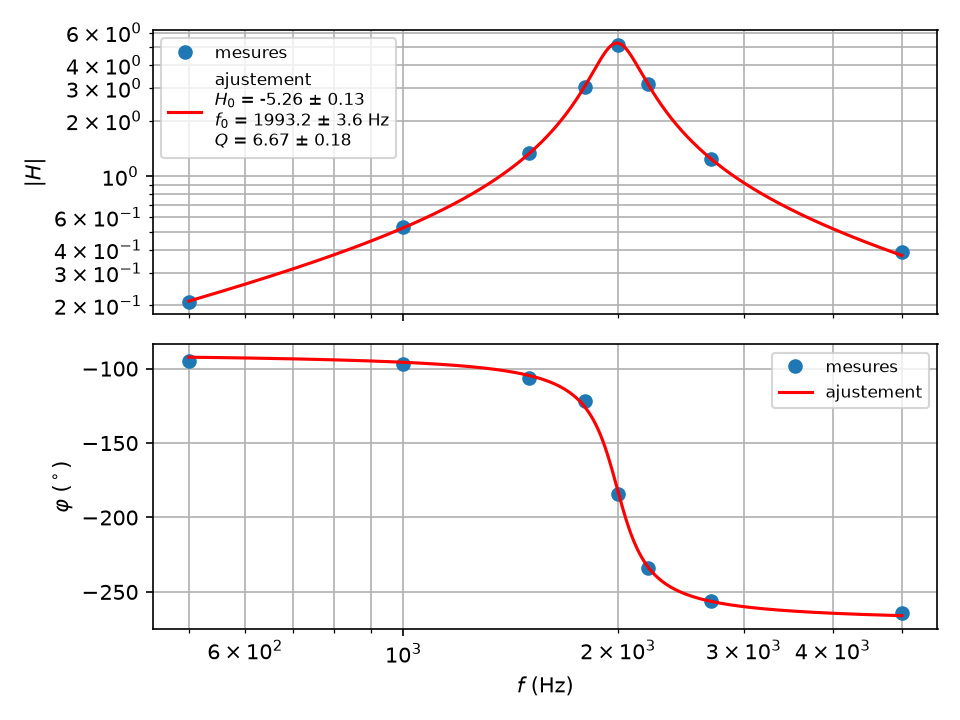
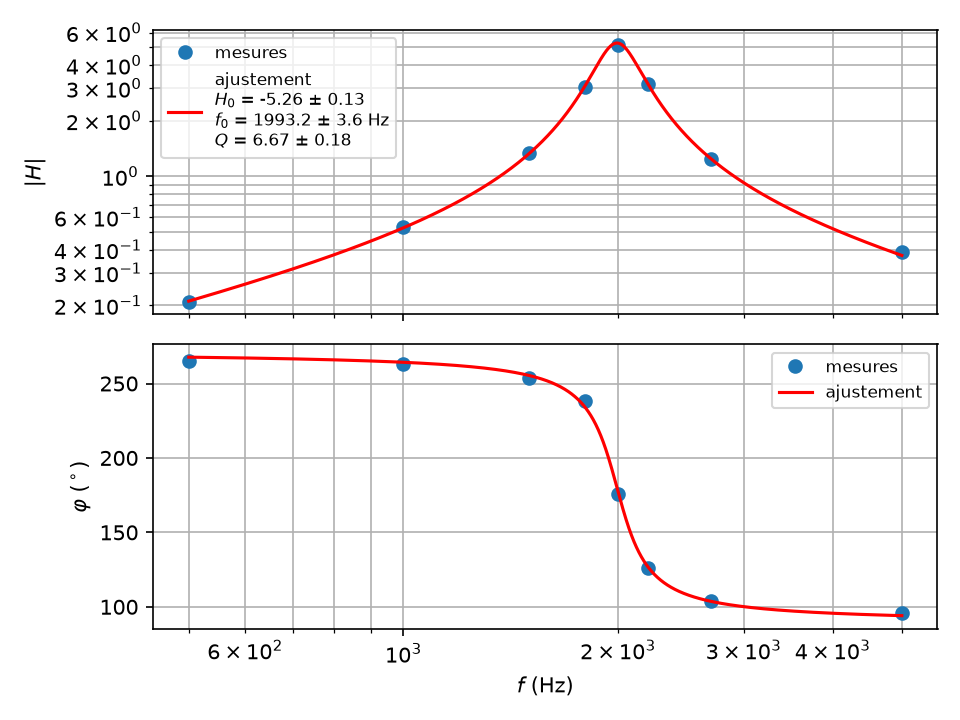
fix(bode): phase continue partant entre -45° et 315°
La plus basse fréquence prise entre -180° et 180° faisait tracer un
passe-bande inverseur de -90° à -270°, alors que le corrigé du TP3 (et la
version précédente) le montrent de 270° à 90° ; entre -90° et 270°, une
première mesure à -90° ± 3° basculait d'un tour selon le bruit. La
frontière est à -45°, à mi-chemin des phases de départ usuelles (0, ±90°,
180°) : l'inverseur va de 270° à 90°, le passe-bande de 90° à -90°, le
passe-bas de 0 à -90°, et une mesure bruitée ne bascule pas.

Un test vérifie aussi que curve_fit_complex corrige un départ de H0 de
signe faux ; fiches, exemples et figures suivent.

diff --git a/tpllg/bode.py b/tpllg/bode.py
@@ -3,14 +3,16 @@ Diagramme de Bode : le tracé des mesures et, s'il y en a un, du modèle ajusté
 gain au-dessus et phase au-dessous.
 
 La phase est tracée continue : celle du modèle déroulée le long des
-fréquences, en partant de la plus basse prise entre -180° et 180° ; chaque
+fréquences, en partant de la plus basse prise entre -45° et 315° ; chaque
 mesure au tour le plus proche du modèle. Un passe-bas va ainsi de 0 à -90°,
-un passe-bande de 90° à -90°, un passe-bande inverseur de -90° à -270°.
-Replier la phase sur [0, 360[ faisait sauter de 360° celle d'un passe-bande
-non inverseur en pleine résonance, et dispersait entre 0 et 359° des mesures
-voisines de 0°. (Prendre la moyenne entre -180° et 180° ferait basculer
-l'inverseur d'une plage de fréquences à l'autre : sa moyenne est près de
--180°.)
+un passe-bande de 90° à -90°, un passe-bande inverseur de 270° à 90° en
+passant par 180° à la résonance — comme le repli sur [0, 360[ d'avant, mais
+sans ses défauts : il faisait sauter de 360° la phase d'un passe-bande non
+inverseur en pleine résonance, et dispersait entre 0 et 359° des mesures
+voisines de 0°. (Les phases de départ usuelles sont 0, ±90° et 180° : la
+frontière, à -45°, est à mi-chemin, loin du bruit d'une mesure ; à -180°
+ou à -90°, elle passerait sur le départ d'un passe-haut du second ordre ou
+d'un passe-bande inverseur, qui basculeraient d'une mesure à l'autre.)
 
 @author: a. marchand
 """
@@ -28,7 +30,7 @@ def phase_continue(f, phase, reference=None):
     suivante.
 
     Sans `reference` : déroulée dans l'ordre des fréquences, la plus basse
-    prise entre -180° (exclu) et 180°. Avec `reference` (en degrés, une
+    prise entre -45° et 315° (exclu). Avec `reference` (en degrés, une
     valeur par fréquence, celle d'un modèle par exemple) : chaque phase prise
     au tour le plus proche de la référence.
     """
@@ -41,7 +43,7 @@ def phase_continue(f, phase, reference=None):
     deroulee = np.empty_like(phase)
     deroulee[ordre] = np.degrees(np.unwrap(phase[ordre]))
     premiere = deroulee[ordre[0]]
-    return deroulee - 360 * np.ceil((premiere - 180) / 360)
+    return deroulee - 360 * np.floor((premiere + 45) / 360)
 
 
 def tracer_bode(

diff --git a/tests/test_bode.py b/tests/test_bode.py
@@ -16,7 +16,7 @@ class TestPhaseContinue:
         ("H", "debut", "fin"),
         [
             (passe_bande(F, 5, 2000, 6), 90, -90),  # repliée sur [0, 360[, elle sautait de 55° à 280°
-            (passe_bande(F, -5, 2000, 6), -90, -270),
+            (passe_bande(F, -5, 2000, 6), 270, 90),  # comme le TP le montre : 270° → 180° → 90°
             (1 / (1 + 1j * F / 2000), 0, -90),
             (1 / (1 - (F / 2000) ** 2 + 1j * F / 2000 / 0.7), 0, -180),
         ],
@@ -25,6 +25,12 @@ class TestPhaseContinue:
         phase = phase_continue(F, np.angle(H))
         assert np.abs(np.diff(phase)).max() < 100  # 56° au plus près de la résonance, 360° pour un saut
         assert phase[0] == pytest.approx(debut, abs=10) and phase[-1] == pytest.approx(fin, abs=10)
+
+    @pytest.mark.parametrize("bruit", [-3.0, 0.0, 3.0])
+    def test_inverseur_mesure_sans_modele(self, bruit):
+        """Une première mesure à -90° ± le bruit ne fait pas basculer la courbe d'un tour."""
+        phase = phase_continue([200, 2000, 20000], np.radians([-90 + bruit, 180, 90]))
+        assert np.allclose(phase, [270 + bruit, 180, 90])
 
     def test_mesures_voisines_de_zero(self):
         """± 0,5° autour de 0 se dispersaient entre 0 et 359,5."""
@@ -58,8 +64,10 @@ class TestTracerBode:
         x_ajuste, y_ajuste = ax1.get_lines()[1].get_data()
         assert np.allclose(y_ajuste, np.abs(passe_bande(x_ajuste, *pfit)))
         _, phase_tracee = ax2.get_lines()[0].get_data()
-        assert np.allclose(phase_tracee, np.degrees(np.unwrap(np.angle(H))))  # l'inverseur : de -90° à -270°
-        assert phase_tracee[0] == pytest.approx(-90, abs=1)
+        assert np.allclose(
+            phase_tracee, np.degrees(np.unwrap(np.angle(H))) + 360
+        )  # l'inverseur : de 270° à 90°
+        assert phase_tracee[0] == pytest.approx(270, abs=1)
 
     def test_mesures_au_tour_du_modele(self):
         f = np.geomspace(100, 10000, 15)

diff --git a/exemples/ajustement_complexe.py b/exemples/ajustement_complexe.py
@@ -25,7 +25,7 @@ def module_seul(f, H0, f0, Q):
 
 def phase_deg(frequences, z):
     """La phase d'un complexe en degrés, continue le long des fréquences, comme
-    tracer_bode la trace : celle d'un passe-bande inverseur va de -90° à -270°."""
+    tracer_bode la trace : celle d'un passe-bande inverseur va de 270° à 90°."""
     return phase_continue(frequences, np.angle(z))
 
 
@@ -81,10 +81,10 @@ axes[1].plot(
     label="le module seul, si H0 > 0",
 )
 axes[1].set_xscale("log")
-axes[1].set_yticks(np.arange(-270, 91, 90))
+axes[1].set_yticks(np.arange(-90, 271, 90))
 axes[1].set_title("la phase : le signe de H0 se lit ici", fontsize=10)
 axes[2].set_xlim(f_zoom[0], f_zoom[-1])
-axes[2].set_ylim(-260, -100)
+axes[2].set_ylim(100, 260)
 axes[2].set_title(f"autour de la résonance : f0 = {pfit[1]:.0f} Hz ou {pmod[1]:.0f} Hz", fontsize=10)
 for ax in axes:
     ax.set_xlabel("f (Hz)")
@@ -164,7 +164,7 @@ axes[1].set_ylim(2, 5.6)
 axes[1].set_ylabel("|H|")
 axes[1].set_title("autour de la résonance", fontsize=10)
 axes[2].set_xscale("log")
-axes[2].set_yticks(np.arange(-270, -89, 45))
+axes[2].set_yticks(np.arange(90, 271, 45))
 axes[2].set_ylabel("phase (°)")
 axes[2].set_title("la phase, à 3° près", fontsize=10)
 for ax in axes:

diff --git a/tests/test_ajustement.py b/tests/test_ajustement.py
@@ -222,6 +222,13 @@ class TestCurveFitComplex:
         sans = curve_fit_complex(gain, f, norm, phase, [-4, 1800, 5], (0.01, 0.01), 1.0, verbose=False)
         assert np.allclose(avec.pfit, sans.pfit, rtol=1e-4) and np.allclose(avec.err, sans.err, rtol=1e-3)
 
+    def test_signe_de_h0_faux_corrige(self, rng):
+        """ln|H| interdit à H0 de passer par zéro : le départ par Re et Im le corrige."""
+        f, norm, phase = mesures_bode(rng)
+        bon = curve_fit_complex(gain, f, norm, phase, [-4, 1800, 5], verbose=False)
+        signe_faux = curve_fit_complex(gain, f, norm, phase, [4, 1800, 5], verbose=False)
+        assert np.allclose(signe_faux.pfit, bon.pfit, rtol=1e-6)
+
     def test_module_nul_refuse(self):
         with pytest.raises(ValueError, match="strictement positifs"):
             curve_fit_complex(gain, [1, 2, 3], [1, 0, 1], [0, 0, 0], [1, 2, 3], verbose=False)

diff --git a/exemples/ajustement_depart.py b/exemples/ajustement_depart.py
@@ -67,7 +67,7 @@ for colonne, (titre, p0) in enumerate(departs):
     bas.semilogx(f, phase_continue(f, phi, reference), "o", markersize=4)
     bas.semilogx(f_fin, phase_deg(f_fin, passe_bande(f_fin, *p0)), "--", color="gray")
     bas.semilogx(f_fin, modele, color="tab:orange")
-    bas.set_yticks(np.arange(-270, 271, 90))
+    bas.set_yticks(np.arange(-90, 451, 90))
     bas.set_xlabel("f (Hz)")
 axes[0, 0].set_ylabel("|H|")
 axes[1, 0].set_ylabel("phase (°)")

diff --git a/doc/tests.md b/doc/tests.md
@@ -1,6 +1,6 @@
 # Tests
 
-`pytest` depuis la racine du dépôt : 269 tests, douze fichiers, quelques
+`pytest` depuis la racine du dépôt : 273 tests, douze fichiers, quelques
 secondes, sans centrale (`tests/conftest.py` rend pycanum introuvable,
 supprime l'attente des acquisitions simulées et rend matplotlib muet). Ils
 passent sous Python 3.8 (numpy 1.24, scipy 1.10, matplotlib 3.7), 3.11 et
@@ -18,7 +18,7 @@ chaque défaut corrigé a le test qui l'aurait montré :
 | `test_ajustement.py` | les incertitudes des moindres carrés, `σ/√Sxx` et `σ√(1/P + x̄²/Sxx)`, la variance effective (mêmes paramètres, incertitudes dans le rapport des sigmas effectifs, pente prise sur le modèle sans dérivée, au moins une itération, le meilleur gardé), `curve_fit_complex` sans biais et aux incertitudes justes sur deux cents jeux simulés, une phase à 2π près, un signe de H0 faux corrigé, la régression de York sur les données de Pearson et York et ses incertitudes sur quatre cents jeux, l'arrondi à deux chiffres, les longueurs refusées |
 | `test_incertitudes.py` | la densité normalisée, son intégrale face à `loi_normale_cumulee`, le coefficient de Student comme quantile bilatéral, `sigma` pris en compte sans Student |
 | `test_montecarlo.py` | les incertitudes composées, les corrélations gardées, un tirage jamais refait, deux N différents refusés, un Point non tiré qui prend le N de l'autre, les lois uniforme, triangulaire et arcsinus, l'intervalle le plus court, la droite sans atténuation et égale à York, `ajuster_modele` égal à `curvefit` en valeur et en incertitude, un tirage qui ne converge pas remplacé, les indices de Sobol de deux cas analytiques, `show` dans un repère donné |
-| `test_bode.py` | la phase continue d'un passe-bande, d'un inverseur, d'un passe-bas, des mesures voisines de 0°, la phase de chaque mesure au tour du modèle, la figure écrite avec le modèle et la légende |
+| `test_bode.py` | la phase continue d'un passe-bande, d'un inverseur (de 270° à 90°, même mesuré à ±3° près), d'un passe-bas, des mesures voisines de 0°, la phase de chaque mesure au tour du modèle, la figure écrite avec le modèle et la légende |
 | `test_harmoniques.py` | la synthèse du créneau, du triangle et de la dent de scie, la valeur efficace (Parseval, composante continue entière), le signe de H(0), un H qui ne se calcule pas en 0, un spectre en entiers, des listes de coefficients non modifiées, la valeur de chaque filtre à sa fréquence caractéristique |
 | `test_fichiers.py` | le délimiteur et la virgule devinés, un Path, un fichier sans en-tête ou à une colonne, les lignes vides ou courtes, un fichier Regressi de Windows à virgule décimale, une erreur située à la ligne et à la colonne, le nombre de colonnes vérifié sur un fichier qui existe |
 

diff --git a/doc/bode.md b/doc/bode.md
@@ -59,15 +59,17 @@ sous `f0` à −270° loin au-dessus en passant par −180°, saute alors d'un b
 à l'autre au voisinage de `f0`, où l'on mesure justement le plus de points.
 `phase_continue` rend la phase en degrés, **sans saut** d'une fréquence à la
 suivante : déroulée dans l'ordre des fréquences, la plus basse prise entre
--180° et 180°. Un passe-bas va ainsi de 0 à −90°, un passe-bande de 90° à
-−90°, un passe-bande inverseur de −90° à −270°.
+−45° et 315°. Un passe-bas va ainsi de 0 à −90°, un passe-bande de 90° à
+−90°, un passe-bande inverseur de 270° à 90° en passant par 180° à la
+résonance. (Les phases de départ usuelles sont 0, ±90° et 180° ; la
+frontière, à −45°, est à mi-chemin, loin du bruit d'une mesure.)
 
 ```python
 >>> phase_continue([100, 200, 300, 400], np.radians([-0.5, 0.3, -1.0, 0.4]))
 array([-0.5,  0.3, -1. ,  0.4])
 >>> f = np.array([500, 1000, 1500, 1800, 2000, 2200, 2700, 5000.0])
 >>> np.round(phase_continue(f, np.radians([-95, -97, -106, -122, 176, 126, 104, 96])), 1)
-array([ -95.,  -97., -106., -122., -184., -234., -256., -264.])
+array([265., 263., 254., 238., 176., 126., 104.,  96.])
 ```
 
 Avec `reference`, une valeur en degrés par fréquence — celle d'un modèle —,
@@ -79,10 +81,10 @@ que `tracer_bode` fait des mesures, une fois le modèle déroulé.
 array([370., 190., 175.])
 ```
 
-(La version précédente repliait la phase sur `[0, 360[`. Cela recollait
-l'inverseur, mais faisait sauter de 360° celle d'un passe-bande non
-inverseur en pleine résonance, et dispersait entre 0 et 359,5° des mesures
-voisines de 0°.)
+(La version précédente repliait la phase sur `[0, 360[`. Cela donnait la
+même courbe pour l'inverseur, mais faisait sauter de 360° celle d'un
+passe-bande non inverseur en pleine résonance, et dispersait entre 0 et
+359,5° des mesures voisines de 0°.)
 
 Une phase mesurée en degrés se convertit en radians par `np.radians`
 avant tout ; `tracer_bode` fait la conversion inverse pour l'affichage.
@@ -164,7 +166,7 @@ résidus relatifs sur |H| : écart-type 3.4 %, maximum 10.9 %
 résidus sur phi          : écart-type 2.7°, maximum 6.1°
 ```
 
-![Le diagramme de Bode ajusté : le module en haut, la phase en bas, continue de -90° à -270°, les vingt-trois mesures et la courbe du modèle avec ses paramètres en légende](images/bode_ajustement.png)
+![Le diagramme de Bode ajusté : le module en haut, la phase en bas, continue de 270° à 90°, les vingt-trois mesures et la courbe du modèle avec ses paramètres en légende](images/bode_ajustement.png)
 
 Ces mesures ont été fabriquées avec 3 % de bruit sur les amplitudes et 3°
 sur les phases, autour de `H0 = −5`, `f0 = 1994,6 Hz`, `Q = 6,27`. Ce sont

diff --git a/README.md b/README.md
@@ -181,7 +181,7 @@ f0 = 1993.2 ± 3.6 Hz
 Q = 6.67 ± 0.18
 ```
 
-![Le diagramme de Bode que tracer_bode écrit : module et phase, continue de -90° à -270°, les huit mesures et le modèle ajusté](doc/images/bode.png)
+![Le diagramme de Bode que tracer_bode écrit : module et phase, continue de 270° à 90°, les huit mesures et le modèle ajusté](doc/images/bode.png)
 
 ## La documentation
 
@@ -201,7 +201,7 @@ l'autre est dans [CHANGELOG.md](CHANGELOG.md).
 | [doc/spectres.md](doc/spectres.md) | le spectre d'un signal, brut ou fenêtré, et ses phases ; relever les harmoniques ; mesurer une fonction de transfert sur les harmoniques d'un créneau |
 | [doc/harmoniques.md](doc/harmoniques.md) | un signal périodique par ses harmoniques : synthèse, filtrage par le calcul, valeur efficace, analyseur de spectre ; ce que devient `traitementsignal` |
 | [doc/fichiers.md](doc/fichiers.md) | lire un CSV de tableur, un export Latis Pro ou Regressi ; relire ce que `sauvegarder` écrit |
-| [doc/tests.md](doc/tests.md) | ce que vérifient les 269 tests |
+| [doc/tests.md](doc/tests.md) | ce que vérifient les 273 tests |
 
 ## Les modules
 

diff --git a/CHANGELOG.md b/CHANGELOG.md
@@ -53,7 +53,8 @@ l'analyse de données de l'oral CCS avait de générique.
   `G, phi = abs(H), np.angle(H)`.
 - **`bode.phase_0_360` est remplacée par `phase_continue(f, phase)`** ;
   `tracer_bode` trace une phase continue, la plus basse fréquence entre
-  -180° et 180° : un passe-bande inverseur va de -90° à -270°.
+  -45° et 315° : un passe-bande inverseur va toujours de 270° à 90°, mais
+  un passe-bande non inverseur ne saute plus de 360° à la résonance.
 - **`Sysam.N_MAX` disparaît** : c'était la mémoire entière, traitée comme
   une limite par voie. `Sysam.n_max(nb_voies, nb_sorties)` la partage.
 - `Sysam.acquerir_avec_sorties(sortie1=None, sortie2=None)` : `None` pour
